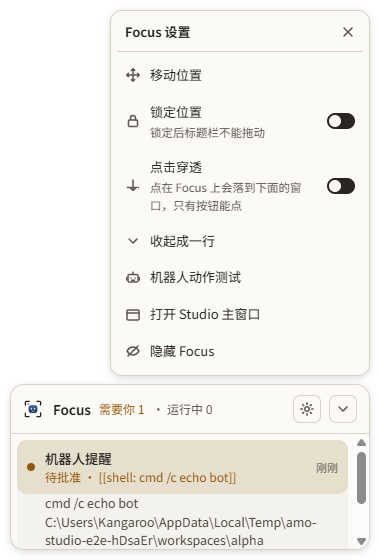
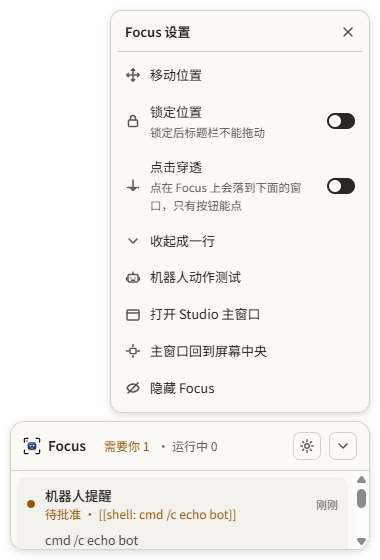
feat(studio): main window size kept as it changes; Focus 主窗口回到屏幕中央
The workbench's bounds were saved only on close, which a killed Studio (a
restart, the task manager) never gets, so it always came back at the default
size. They are now saved once the window has been still for half a second after
a resize, move, maximize or restore. Focus's menu gains 主窗口回到屏幕中央: the
main window, at its size (shrunk only to fit), in the middle of the display
Focus is on, and in front.

Changed region(s): [[0.0289, 0.6679, 0.9842, 0.9714], [0.3184, 0.6071, 0.6947, 0.6375]]

diff --git a/studio/packages/app/src/main.ts b/studio/packages/app/src/main.ts
@@ -2,7 +2,8 @@ import { app, BrowserWindow, clipboard, dialog, ipcMain, Menu, nativeTheme, scre
 import { dirname, join, resolve } from "node:path";
 import { fileURLToPath } from "node:url";
 import { connectHost, keepHostAlive, stopHost, type HostConnection, type HostLinkOptions } from "./host-link.js";
-import { createFocusWindow, mainBounds, pagePressed, recoverLostClicks, refitFocusWindow, rescaleFocusWindow, ShellPrefs, UI_SCALES, uiScaleOk } from "./focus-window.js";
+import { createFocusWindow, displays, mainBounds, pagePressed, recoverLostClicks, refitFocusWindow, rescaleFocusWindow, ShellPrefs, UI_SCALES, uiScaleOk } from "./focus-window.js";
+import { centreIn, displayFor } from "./placement.js";
 import { existsSync, readdirSync, rmSync } from "node:fs";
 import { tmpdir } from "node:os";
 import { resolveDataDir } from "./paths.js";
@@ -238,6 +239,25 @@ if (!app.requestSingleInstanceLock()) {
     }
     bringForward(mainWindow);
   });
+  // 主窗口回到屏幕中央 (Focus's menu, 2026-10-19): the workbench, at its size, in the middle of the display Focus is on
+  // (where the person is looking), and in front — for a window dragged off every screen. Tests only record where.
+  ipcMain.handle("amo:main-center", () => {
+    if (!mainWindow) return;
+    const all = displays();
+    const display = focusWindow ? displayFor(focusWindow.getBounds(), all) : (all.find((d) => d.id === screen.getPrimaryDisplay().id) ?? all[0]);
+    if (!display) return;
+    const next = centreIn(mainWindow.isMaximized() || mainWindow.isMinimized() ? mainWindow.getNormalBounds() : mainWindow.getBounds(), display.workArea);
+    trace?.note("main", "center", `${next.width}×${next.height}@${next.x},${next.y}`);
+    if (testMode) {
+      (globalThis as { __amoMainCentered?: unknown }).__amoMainCentered = { ...next, display: display.workArea };
+      return;
+    }
+    if (mainWindow.isFullScreen()) mainWindow.setFullScreen(false);
+    if (mainWindow.isMinimized()) mainWindow.restore();
+    if (mainWindow.isMaximized()) mainWindow.unmaximize();
+    mainWindow.setBounds(next);
+    bringForward(mainWindow);
+  });
   // From 设置 → 项目与目录 → 默认路径 (2026-10-17) when set. Tests read what it would start at and pick for it.
   ipcMain.handle("amo:pick-directory", async (_e, start?: unknown) => {
     const defaultPath = typeof start === "string" && start.trim() && existsSync(start.trim()) ? start.trim() : undefined;
@@ -437,7 +457,26 @@ function createMainWindow(conn: HostConnection): BrowserWindow {
       win.show();
     }
   });
-  if (!testMode) win.on("close", () => prefs.setMain({ bounds: win.getNormalBounds(), maximized: win.isMaximized() }));
+  if (!testMode) {
+    // Where the window is, kept as it changes (2026-10-19): a Studio that is killed (a restart, the task manager) never
+    // gets its close, so remembering only then lost every resize. Written once the window has been still a moment.
+    let soon: NodeJS.Timeout | null = null;
+    const remember = () => {
+      if (soon) clearTimeout(soon);
+      soon = null;
+      if (win.isDestroyed() || win.isMinimized() || win.isFullScreen()) return;
+      prefs.setMain({ bounds: win.getNormalBounds(), maximized: win.isMaximized() });
+    };
+    const later = () => {
+      if (soon) clearTimeout(soon);
+      soon = setTimeout(remember, 500);
+    };
+    win.on("resize", later);
+    win.on("move", later);
+    win.on("maximize", later);
+    win.on("unmaximize", later);
+    win.on("close", remember);
+  }
   void win.loadURL(process.env.AMO_STUDIO_DEV_URL ?? `${conn.url}/`);
   return win;
 }

diff --git a/studio/e2e/tests/focus.spec.ts b/studio/e2e/tests/focus.spec.ts
@@ -158,7 +158,7 @@ test("Focus: the robot dances until looked at; 「Focus 设置」 moves, locks, 
   await focus.getByTestId("focus-entry").click({ button: "right" });
   const menu = focus.getByTestId("focus-menu");
   await expect(menu).toBeVisible();
-  await expect(menu.locator(".focus-pop-row")).toHaveCount(7);
+  await expect(menu.locator(".focus-pop-row")).toHaveCount(8);
   for (const label of ["移动位置", "锁定位置", "点击穿透", "收起成一行", "机器人动作测试", "打开 Studio 主窗口", "隐藏 Focus"]) await expect(menu).toContainText(label);
   await expect.poll(async () => (await shape()).reduce((a, r) => a + r.width * r.height, 0)).toBeGreaterThan(panelOnly);
   await screenshot(app, "stage-14", "S14-J-focus-menu", focus, "focus");
@@ -200,6 +200,18 @@ test("Focus: the robot dances until looked at; 「Focus 设置」 moves, locks, 
   await focus.getByTestId("focus-settings-toggle").click();
   await focus.getByTestId("focus-menu-through").click();
   await expect(focus.getByTestId("focus-passthrough")).toHaveCount(0);
+
+  // 主窗口回到屏幕中央 (2026-10-19): the main window, at its size, in the middle of the display Focus is on (tests only
+  // record where: their windows stay off-screen).
+  await focus.getByTestId("focus-menu-center").click();
+  const centred = await expect
+    .poll(() => app.evaluate(() => (globalThis as { __amoMainCentered?: { x: number; y: number; width: number; height: number; display: { x: number; y: number; width: number; height: number } } }).__amoMainCentered ?? null))
+    .not.toBeNull()
+    .then(() => app.evaluate(() => (globalThis as { __amoMainCentered?: { x: number; y: number; width: number; height: number; display: { x: number; y: number; width: number; height: number } } }).__amoMainCentered!));
+  expect(Math.abs(centred.x + centred.width / 2 - (centred.display.x + centred.display.width / 2))).toBeLessThanOrEqual(1);
+  expect(Math.abs(centred.y + centred.height / 2 - (centred.display.y + centred.display.height / 2))).toBeLessThanOrEqual(1);
+  expect(centred.width).toBeLessThanOrEqual(centred.display.width);
+  await focus.getByTestId("focus-settings-toggle").click();
 
   // 隐藏 Focus: the window goes, the top bar button follows.
   const closed = focus.waitForEvent("close");

diff --git a/studio/packages/app/src/placement.test.ts b/studio/packages/app/src/placement.test.ts
@@ -1,5 +1,5 @@
 import { describe, expect, it } from "vitest";
-import { clampInto, displayFor, placeFocus, placeMain, refitFocus, type DisplayInfo } from "./placement.js";
+import { centreIn, clampInto, displayFor, placeFocus, placeMain, refitFocus, type DisplayInfo } from "./placement.js";
 
 // Primary 1920x1080 at 100% (taskbar 40 high); a 4K monitor at 150% on its left (2560x1440 DIP, above the origin);
 // a 1280x1024 at 125% on its right.
@@ -47,6 +47,11 @@ describe("placement", () => {
   });
 
   describe("main window", () => {
+    it("comes back to the middle of a display at its size, shrunk only when it is larger (主窗口回到屏幕中央)", () => {
+      expect(centreIn({ width: 1440, height: 900 }, { x: 2560, y: 0, width: 1920, height: 1040 })).toEqual({ x: 2800, y: 70, width: 1440, height: 900 });
+      expect(centreIn({ width: 3000, height: 900 }, { x: 0, y: 0, width: 1920, height: 1040 })).toEqual({ x: 0, y: 70, width: 1920, height: 900 });
+    });
+
     const size = { width: 1440, height: 900 };
 
     it("centres the default size on the primary display, shrinking to fit", () => {

diff --git a/studio/packages/ui/src/focus/FocusApp.tsx b/studio/packages/ui/src/focus/FocusApp.tsx
@@ -204,6 +204,7 @@ export function FocusApp() {
             { label: compact ? "展开会话列表" : "收起成一行", icon: compact ? ICON.expand : ICON.collapse, close: true, onPick: () => setCompact(!compact), testId: "focus-menu-compact" },
             { label: "机器人动作测试", icon: ICON.bot, hint: "跳舞、变绿、生气乱飞各演一遍", close: true, onPick: () => setDemo("alert"), testId: "focus-menu-bot" },
             { label: "打开 Studio 主窗口", icon: ICON.window, close: true, onPick: () => void window.amo?.openInWorkbench?.({ show: true }), testId: "focus-menu-open" },
+            { label: "主窗口回到屏幕中央", icon: ICON.center, hint: "主窗口拖到屏幕外找不到时：放回 Focus 所在屏幕的正中", close: true, onPick: () => void window.amo?.focus?.centerMain?.(), testId: "focus-menu-center" },
             { label: "隐藏 Focus", icon: ICON.hide, hint: "主窗口顶栏的 Focus 按钮可以再打开", close: true, onPick: () => void window.amo?.focus?.set(false), testId: "focus-menu-hide" },
           ]}
         />

diff --git a/studio/packages/app/src/placement.ts b/studio/packages/app/src/placement.ts
@@ -96,6 +96,13 @@ export function refitFocus(current: Rect, displays: readonly DisplayInfo[], prim
   return placeFocus({ x: current.x, y: current.y }, current, displays, primaryId);
 }
 
+/** 主窗口回到屏幕中央 (2026-10-19): the window's size, shrunk to the work area if larger, centred on it. */
+export function centreIn(size: Size, a: Rect): Rect {
+  const width = Math.min(size.width, a.width);
+  const height = Math.min(size.height, a.height);
+  return { x: Math.round(a.x + (a.width - width) / 2), y: Math.round(a.y + (a.height - height) / 2), width: Math.round(width), height: Math.round(height) };
+}
+
 /**
  * Bounds for the workbench window: the remembered bounds if enough of the title strip lies on some display (shrunk
  * to that display if it no longer fits), otherwise the default size centred on the primary display.

diff --git a/studio/packages/ui/src/host/client.ts b/studio/packages/ui/src/host/client.ts
@@ -29,6 +29,8 @@ declare global {
         /** Focus window: the robot flies about the screen saying `message`; `land` calls it back (2026-10-15). */
         fly?(message: string): void;
         land?(): void;
+        /** 主窗口回到屏幕中央 (2026-10-19): the main window in the middle of the display Focus is on, in front. */
+        centerMain?(): Promise<void>;
         onBotCaught?(cb: () => void): () => void;
         onContextMenu?(cb: (at: { x: number; y: number }) => void): () => void;
       };

diff --git a/studio/packages/ui/src/focus/FocusSettings.tsx b/studio/packages/ui/src/focus/FocusSettings.tsx
@@ -76,6 +76,13 @@ export const ICON = {
       <path d="M2 6h12" />
     </>,
   ),
+  // A window with arrows pulling it to the middle.
+  center: svg(
+    <>
+      <rect x="5" y="5.5" width="6" height="5" rx="0.8" />
+      <path d="M1.5 8h2M12.5 8h2M8 1.5v2M8 12.5v2" />
+    </>,
+  ),
   gear: svg(
     <>
       <circle cx="8" cy="8" r="2.2" />
